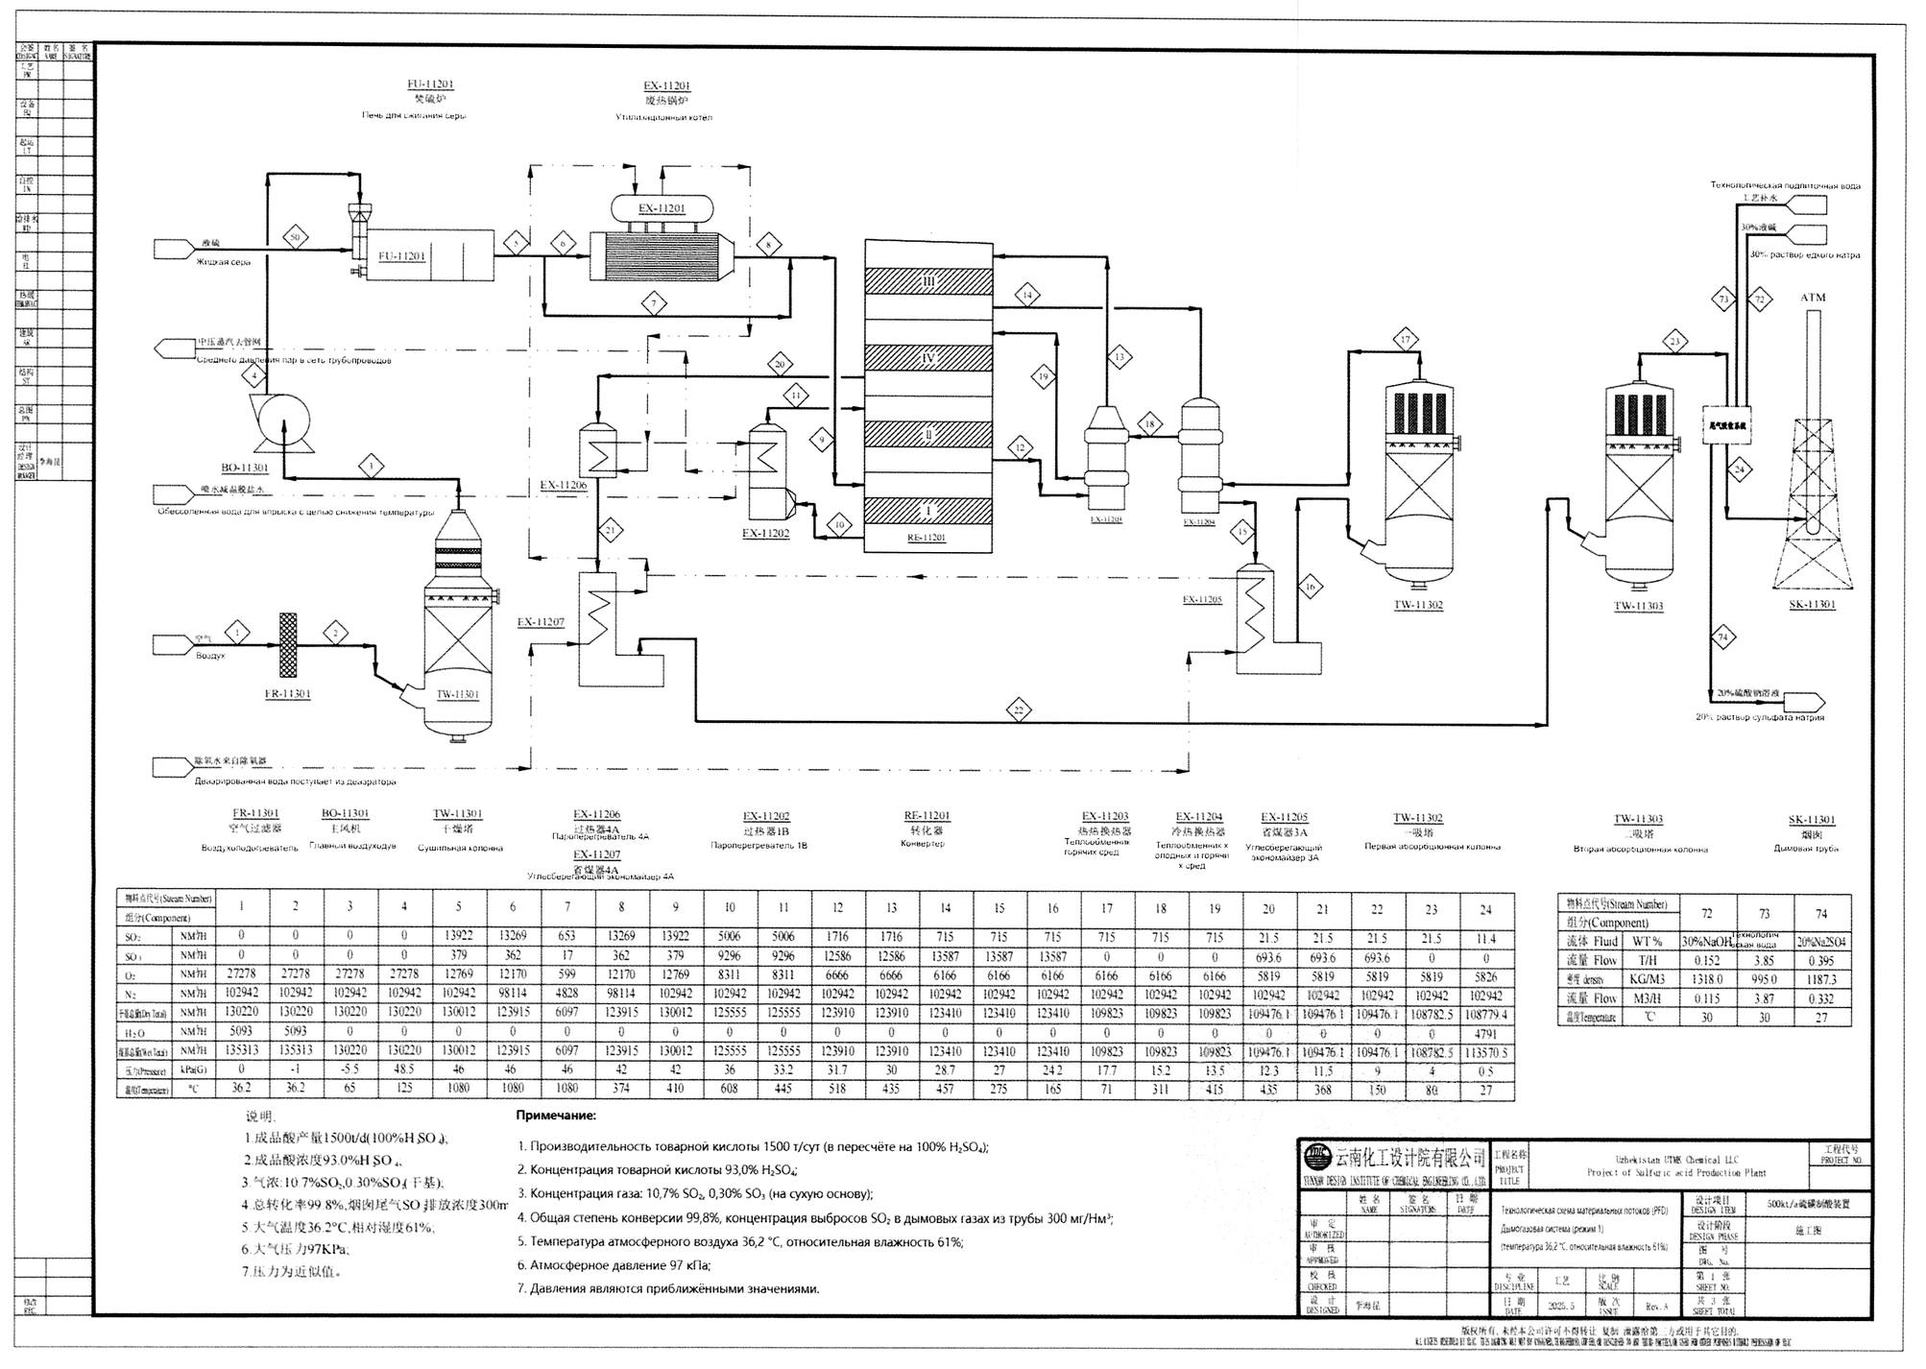
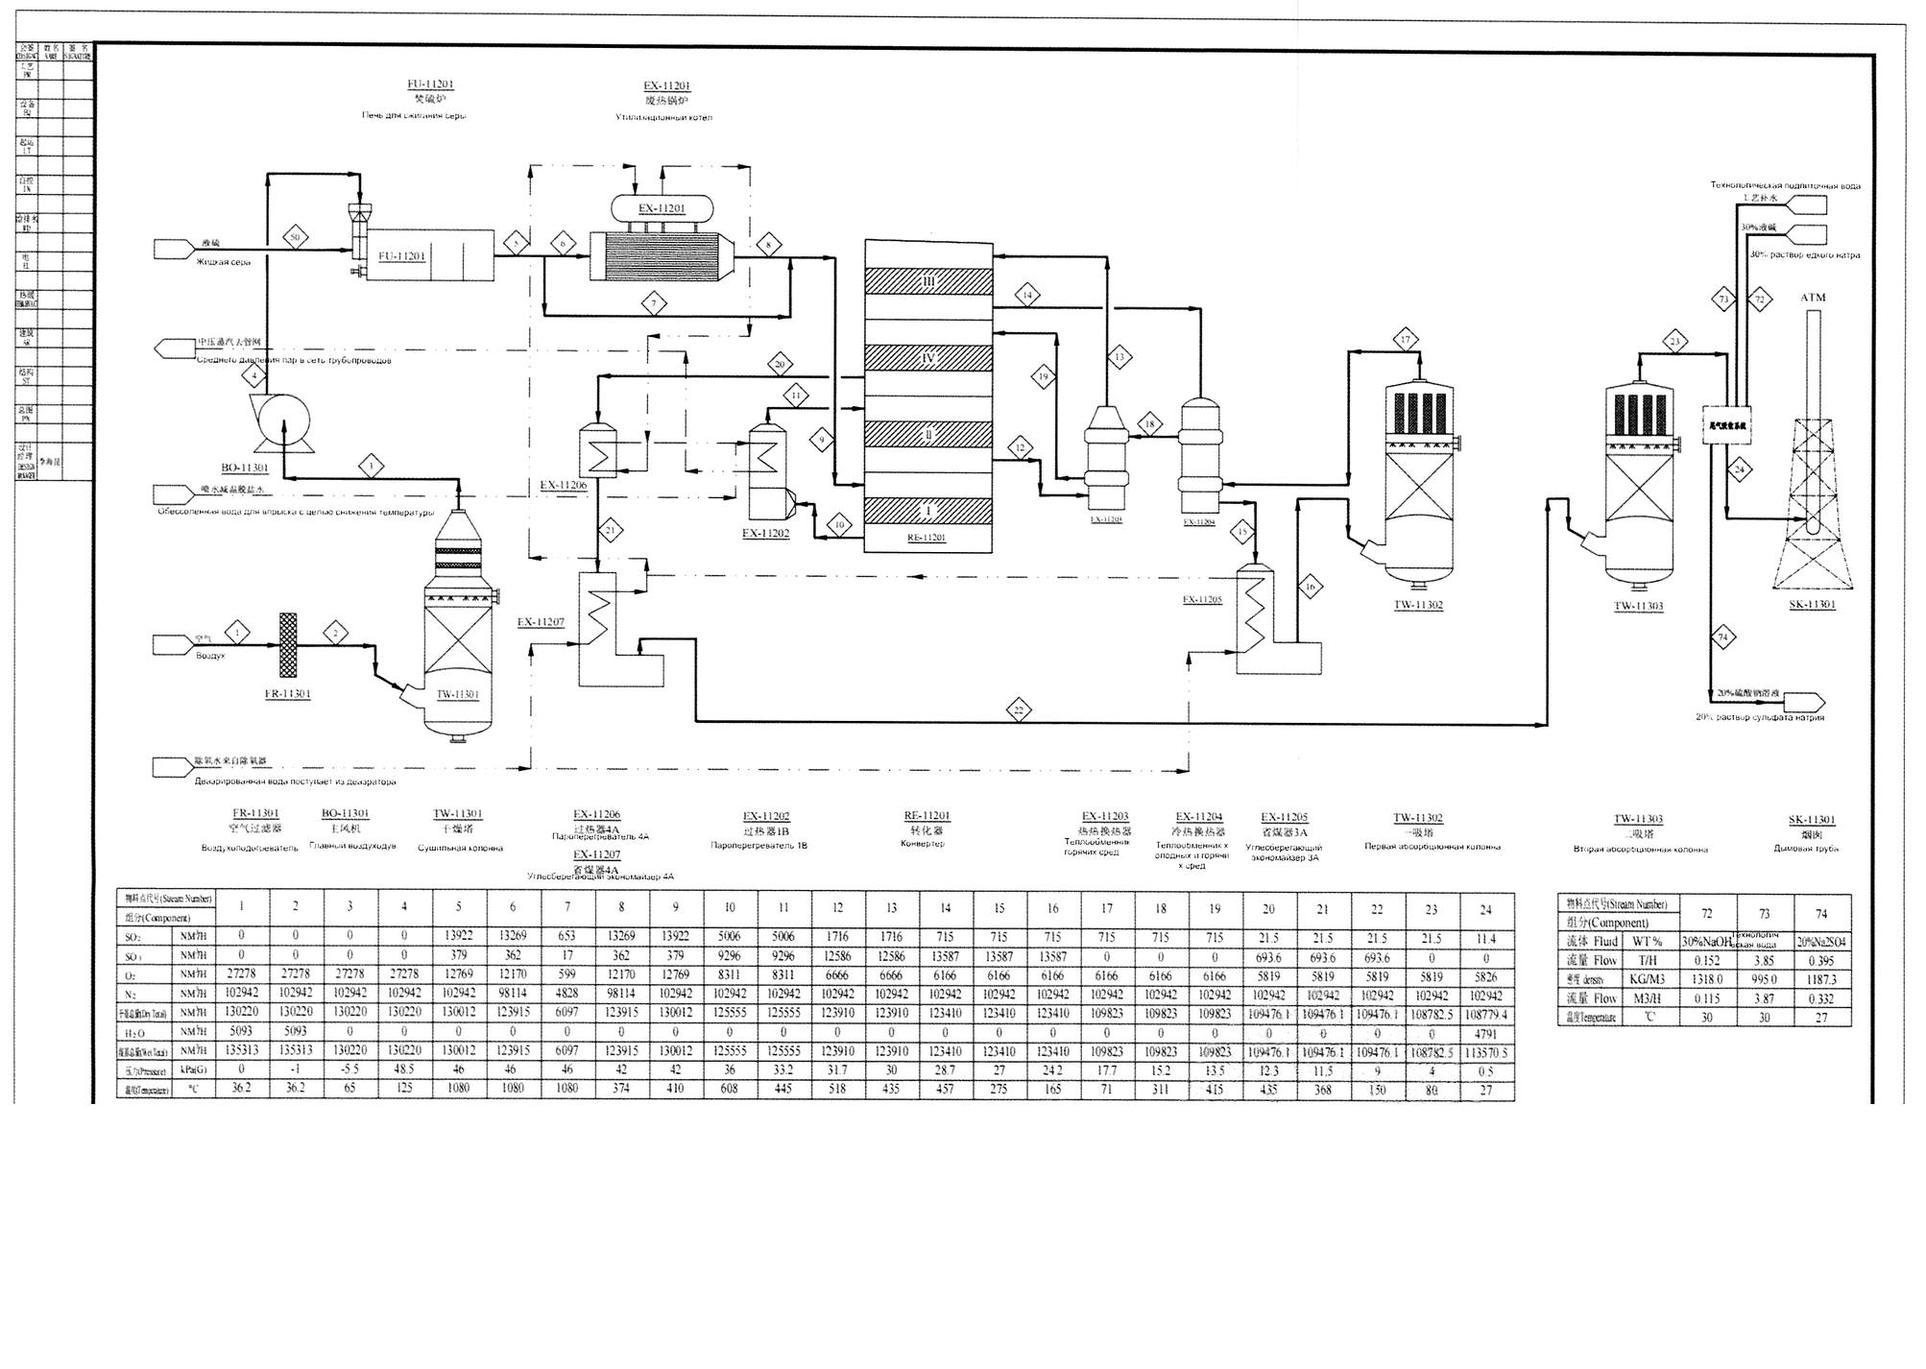
PFD: на скане убрано всё ниже таблицы потоков
Claude-Session: https://claude.ai/code/session_0167mA45nXL3RjRL8ZUSQks3

Changed region(s): [[0.0, 0.8022, 0.989, 0.9874]]

diff --git a/help.html b/help.html
@@ -103,7 +103,7 @@ ru: {
   sub:'Как пользоваться приложением: куда нажимать и что это даёт. Разделы ниже можно раскрывать по очереди.',
   tdModel:'3D-модель', tdFlow:'Схема потоков', tdPfd:'PFD', tdDocs:'Документы', tdSettings:'Настройки', tdHelp:'Помощь',
   h3dT:'3D-модель завода', hCardT:'Карточка оборудования и здания', hImgT:'Чертежи и фото: увеличение',
-  hCutT:'Разрез оборудования', hFlowT:'Схема потоков', hPfdT:'PFD — схема материальных потоков', hPfdBody:'<p>Три листа чертежа WZ-POT-262: дымогазовая, кислотная и паровая системы. Колесо мыши или щипок — масштаб, перетаскивание — сдвиг.</p><ul><li>Нажмите на аппарат (пунктирная зона) — откроется карточка с параметрами из модели, кнопки «Показать в 3D» и «Показать в схеме потоков».</li><li>Нажмите на ромб с номером потока — подсветится линия потока и откроются его параметры из таблицы чертежа (температура, давление, расход, состав).</li><li>Внизу появляется панель «Входы и выходы»: для каждого аппарата на концах потока (или для выбранного аппарата) — таблица входящих и выходящих потоков с расходом, температурой и давлением, суммы входа и выхода и баланс. Если баланс не сходится по таблице чертежа, показано расхождение (данные не правятся). Нажмите строку — поток подсветится на схеме; «Свернуть» убирает панель вниз.</li><li>В карточках 3D-модели и схемы потоков есть кнопка «Показать на PFD».</li><li>Схема перерисована в векторе в стиле схемы потоков: аппараты (колонны с насадкой, теплообменники, котёл, печь, насосы, ёмкости) нарисованы схемными символами, цвета труб по среде, выбор среды (кнопки над схемой) оставляет на схеме только её линии, стрелки, ромбы, выводы, арматуру и КИП, остальное скрыто, аппараты без этой среды приглушены; «Все среды» возвращает всю схему. Кнопка «Скан» показывает исходный чертёж, «Наложение» — скан поверх схемы для сверки.</li><li>Линии и стрелки получены автоматически по скану и могут слегка отличаться от чертежа; ориентируйтесь на стрелки самого чертежа.</li></ul>', hDocsT:'Документы и архив чертежей', hSetT:'Настройки',
+  hCutT:'Разрез оборудования', hFlowT:'Схема потоков', hPfdT:'PFD — схема материальных потоков', hPfdBody:'<p>Три листа чертежа WZ-POT-262: дымогазовая, кислотная и паровая системы. Колесо мыши или щипок — масштаб, перетаскивание — сдвиг.</p><ul><li>Нажмите на аппарат (пунктирная зона) — откроется карточка с параметрами из модели, кнопки «Показать в 3D» и «Показать в схеме потоков».</li><li>Нажмите на ромб с номером потока — подсветится линия потока и откроются его параметры из таблицы чертежа (температура, давление, расход, состав).</li><li>Внизу появляется панель «Входы и выходы»: для каждого аппарата на концах потока (или для выбранного аппарата) — таблица входящих и выходящих потоков с расходом, температурой и давлением, суммы входа и выхода и баланс. Если баланс не сходится по таблице чертежа, показано расхождение (данные не правятся). Нажмите строку — поток подсветится на схеме; «Свернуть» убирает панель вниз.</li><li>В карточках 3D-модели и схемы потоков есть кнопка «Показать на PFD».</li><li>Схема перерисована в векторе в стиле схемы потоков: аппараты (колонны с насадкой, теплообменники, котёл, печь, насосы, ёмкости) нарисованы схемными символами, цвета труб по среде, выбор среды (кнопки над схемой) оставляет на схеме только её линии, стрелки, ромбы, выводы, арматуру и КИП, остальное скрыто, аппараты без этой среды приглушены; «Все среды» возвращает всю схему. Кнопка «Скан» показывает исходный чертёж (схема и таблицы потоков, без примечаний и штампа), «Наложение» — скан поверх схемы для сверки.</li><li>Линии и стрелки получены автоматически по скану и могут слегка отличаться от чертежа; ориентируйтесь на стрелки самого чертежа.</li></ul>', hDocsT:'Документы и архив чертежей', hSetT:'Настройки',
   h3dBody: [
     row('👆','Один палец — провести по экрану','По умолчанию палец сдвигает (двигает) камеру в сторону — «панорамирование». Если нужно именно вращать сцену одним пальцем, включите режим вращения кнопкой ⟳ внизу экрана.'),
     row('⟳','Кнопка со стрелкой по кругу (внизу экрана)','Переключает, что делает один палец: вращать сцену вокруг объекта или сдвигать камеру в сторону. Нажатая (подсвеченная) кнопка — включено вращение.'),
@@ -171,7 +171,7 @@ uz: {
   sub:'Ilovadan qanday foydalanish: qayerga bosish va bu nimaga olib kelishi. Quyidagi bo‘limlarni birma-bir ochish mumkin.',
   tdModel:'3D-model', tdFlow:'Oqim sxemasi', tdPfd:'PFD', tdDocs:'Hujjatlar', tdSettings:'Sozlamalar', tdHelp:'Yordam',
   h3dT:'Zavodning 3D-modeli', hCardT:'Jihoz va bino kartochkasi', hImgT:'Chizmalar va fotolar: kattalashtirish',
-  hCutT:'Jihoz kesimi', hFlowT:'Oqim sxemasi', hPfdT:'PFD — moddiy oqimlar sxemasi', hPfdBody:'<p>WZ-POT-262 chizmasining uchta varag‘i: tutun-gaz, kislota va bug‘ tizimlari. G‘ildirak yoki chimchilash — masshtab, sudrash — siljitish.</p><ul><li>Apparat ustiga (punktir zona) bosing — modeldagi parametrlar kartochkasi, «3D da ko‘rsatish» va «Oqim sxemasida ko‘rsatish» tugmalari ochiladi.</li><li>Oqim raqamli rombga bosing — oqim chizig‘i ajratiladi va chizma jadvalidagi parametrlari (harorat, bosim, sarf, tarkib) ochiladi.</li><li>Pastda «Kirish va chiqishlar» paneli chiqadi: oqim uchlaridagi har bir apparat (yoki tanlangan apparat) uchun kiruvchi va chiquvchi oqimlar jadvali — sarf, harorat, bosim, kirish va chiqish yig‘indilari va balans. Chizma jadvali bo‘yicha balans mos kelmasa, farq ko‘rsatiladi (ma’lumotlar tuzatilmaydi). Qatorni bossangiz, oqim sxemada ajratiladi; «Yig‘ish» paneli pastga yig‘adi.</li><li>3D-model va oqim sxemasi kartochkalarida «PFD da ko‘rsatish» tugmasi bor.</li><li>Sxema vektorda, oqim sxemasi uslubida qayta chizilgan: apparatlar (nasadkali kolonnalar, issiqlik almashtirgichlar, qozon, pech, nasoslar, idishlar) sxematik belgilar bilan chizilgan, quvur ranglari muhit bo‘yicha, muhit tanlansa, sxemada faqat uning chiziqlari, strelkalari, rombalari, chiqishlari, armaturasi va KIP qoladi, qolganlari yashiriladi, bu muhit ishtirok etmaydigan apparatlar xira bo‘ladi; «Barcha muhitlar» butun sxemani qaytaradi. «Skan» tugmasi asl chizmani ko‘rsatadi, «Ustma-ust» — tekshirish uchun skanni sxema ustiga qo‘yadi.</li><li>Chiziqlar va strelkalar skandan avtomatik olingan, chizmadan biroz farq qilishi mumkin; chizma strelkalariga tayaning.</li></ul>', hDocsT:'Hujjatlar va chizmalar arxivi', hSetT:'Sozlamalar',
+  hCutT:'Jihoz kesimi', hFlowT:'Oqim sxemasi', hPfdT:'PFD — moddiy oqimlar sxemasi', hPfdBody:'<p>WZ-POT-262 chizmasining uchta varag‘i: tutun-gaz, kislota va bug‘ tizimlari. G‘ildirak yoki chimchilash — masshtab, sudrash — siljitish.</p><ul><li>Apparat ustiga (punktir zona) bosing — modeldagi parametrlar kartochkasi, «3D da ko‘rsatish» va «Oqim sxemasida ko‘rsatish» tugmalari ochiladi.</li><li>Oqim raqamli rombga bosing — oqim chizig‘i ajratiladi va chizma jadvalidagi parametrlari (harorat, bosim, sarf, tarkib) ochiladi.</li><li>Pastda «Kirish va chiqishlar» paneli chiqadi: oqim uchlaridagi har bir apparat (yoki tanlangan apparat) uchun kiruvchi va chiquvchi oqimlar jadvali — sarf, harorat, bosim, kirish va chiqish yig‘indilari va balans. Chizma jadvali bo‘yicha balans mos kelmasa, farq ko‘rsatiladi (ma’lumotlar tuzatilmaydi). Qatorni bossangiz, oqim sxemada ajratiladi; «Yig‘ish» paneli pastga yig‘adi.</li><li>3D-model va oqim sxemasi kartochkalarida «PFD da ko‘rsatish» tugmasi bor.</li><li>Sxema vektorda, oqim sxemasi uslubida qayta chizilgan: apparatlar (nasadkali kolonnalar, issiqlik almashtirgichlar, qozon, pech, nasoslar, idishlar) sxematik belgilar bilan chizilgan, quvur ranglari muhit bo‘yicha, muhit tanlansa, sxemada faqat uning chiziqlari, strelkalari, rombalari, chiqishlari, armaturasi va KIP qoladi, qolganlari yashiriladi, bu muhit ishtirok etmaydigan apparatlar xira bo‘ladi; «Barcha muhitlar» butun sxemani qaytaradi. «Skan» tugmasi asl chizmani ko‘rsatadi (sxema va oqimlar jadvallari, izohlar va shtampsiz), «Ustma-ust» — tekshirish uchun skanni sxema ustiga qo‘yadi.</li><li>Chiziqlar va strelkalar skandan avtomatik olingan, chizmadan biroz farq qilishi mumkin; chizma strelkalariga tayaning.</li></ul>', hDocsT:'Hujjatlar va chizmalar arxivi', hSetT:'Sozlamalar',
   h3dBody: [
     row('👆','Bitta barmoq — ekranda yurgizish','Odatda barmoq kamerani yon tomonga siljitadi («panoramalash»). Agar bitta barmoq bilan aylantirish kerak bo‘lsa, ekran pastidagi ⟳ tugmasi bilan aylantirish rejimini yoqing.'),
     row('⟳','Doira shaklidagi strelka tugmasi (ekran pastida)','Bitta barmoq nima qilishini almashtiradi: obyekt atrofida aylantirish yoki kamerani yon tomonga siljitish. Yoqilgan (yorqin) tugma — aylantirish rejimi faol.'),

diff --git a/service-worker.js b/service-worker.js
@@ -1,4 +1,4 @@
-const CACHE = 'tmk-plant-v96';
+const CACHE = 'tmk-plant-v97';
 const ASSETS = [
   "logo.png",
   "sec_img/eq_EX-13501_2.jpg",

diff --git a/tools/pfd/build.py b/tools/pfd/build.py
@@ -7,7 +7,7 @@
 Разметка (зоны аппаратов, направления потоков, пунктиры, подписи) — в eqboxes.py и manual.py."""
 import sys, os, json, subprocess, tempfile, re
 import numpy as np, cv2
-from PIL import Image
+from PIL import Image, ImageDraw
 HERE=os.path.dirname(os.path.abspath(__file__)); ROOT=os.path.abspath(os.path.join(HERE,'..','..'))
 sys.path.insert(0,HERE)
 import trace as T
@@ -21,6 +21,8 @@ pdf=sys.argv[1]; OUT=os.path.join(ROOT,'pfd'); os.makedirs(os.path.join(OUT,'sca
 tmp=tempfile.mkdtemp(prefix='pfd_'); T.SHEET_DIR=tmp
 subprocess.check_call(['pdfimages','-j',pdf,os.path.join(tmp,'im')])
 IMG={'1':'im-002.jpg','2':'im-000.jpg','3':'im-001.jpg'}   # лист основной надписи → страница PDF
+# нижняя граница таблицы потоков на скане и (лист 2) штамп, стоящий рядом с таблицей
+SCAN_CUT={'1':(1150,None),'2':(1350,(1325,1184,2006,1426)),'3':(1170,None)}
 CROP=(220,170,3230,2310)
 W,H=CROP[2]-CROP[0],CROP[3]-CROP[1]
 for sh,f in IMG.items():
@@ -28,7 +30,11 @@ for sh,f in IMG.items():
     g=np.clip((a[...,0]-70)/(238-70),0,1)*255      # канал R: красная печать гаснет
     im=Image.fromarray(g.astype(np.uint8)).crop(CROP)
     im.save(os.path.join(tmp,f'sheet{sh}.png'))
-    im.resize((W*2//3,H*2//3),Image.LANCZOS).save(os.path.join(OUT,'scan',f'sheet{sh}.jpg'),quality=72,optimize=True)
+    sm=im.resize((W*2//3,H*2//3),Image.LANCZOS)
+    # на скане для сверки убрано всё ниже таблицы потоков (примечания, штамп, нижняя рамка): координаты в пикселях скана
+    yb,tb=SCAN_CUT[sh]; d=ImageDraw.Draw(sm); d.rectangle((0,yb,sm.width,sm.height),fill=255)
+    if tb: d.rectangle(tb,fill=255)
+    sm.save(os.path.join(OUT,'scan',f'sheet{sh}.jpg'),quality=72,optimize=True)
 
 def diamonds(sh):
     g=cv2.imread(os.path.join(tmp,f'sheet{sh}.png'),0)
